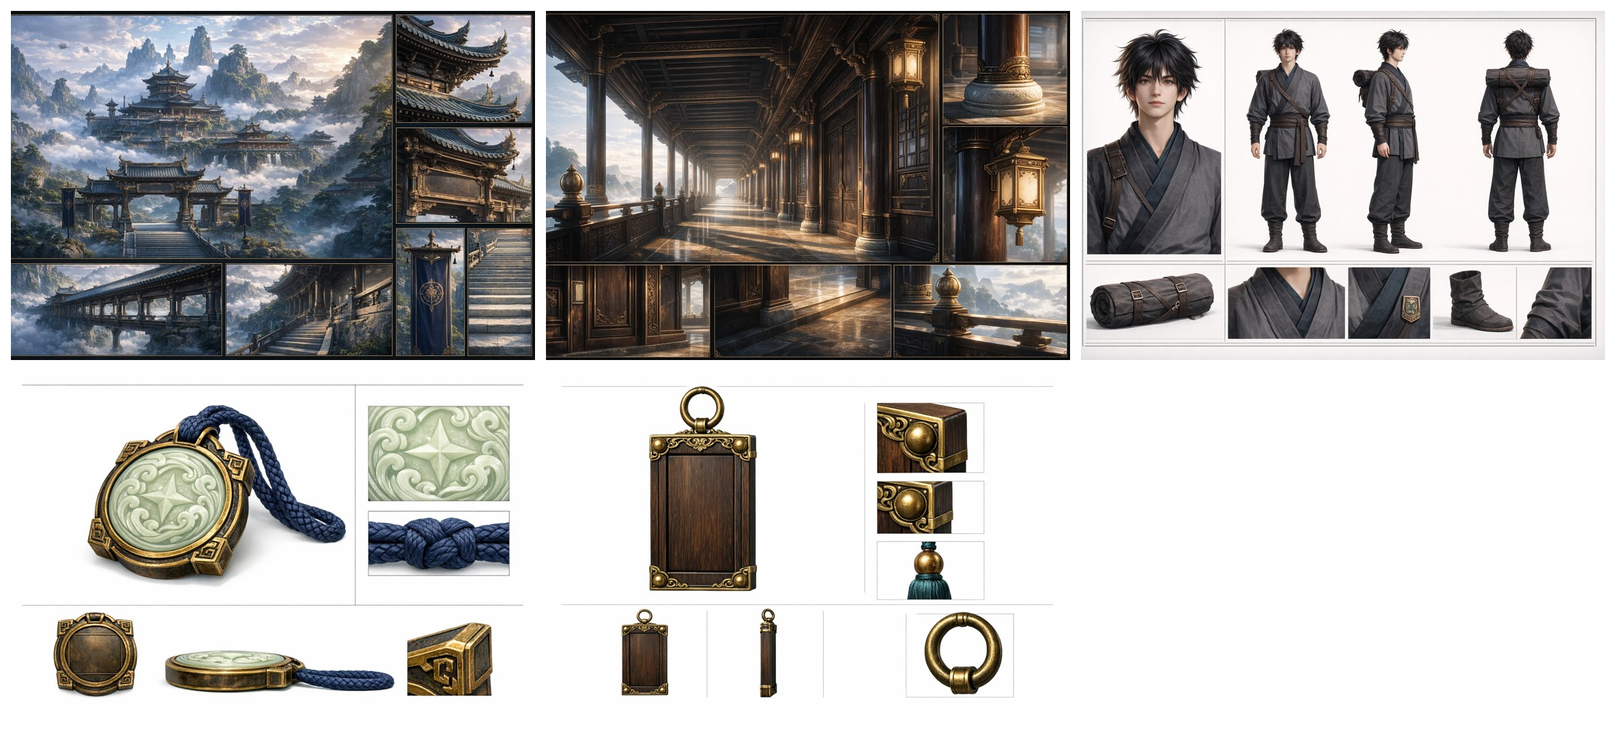
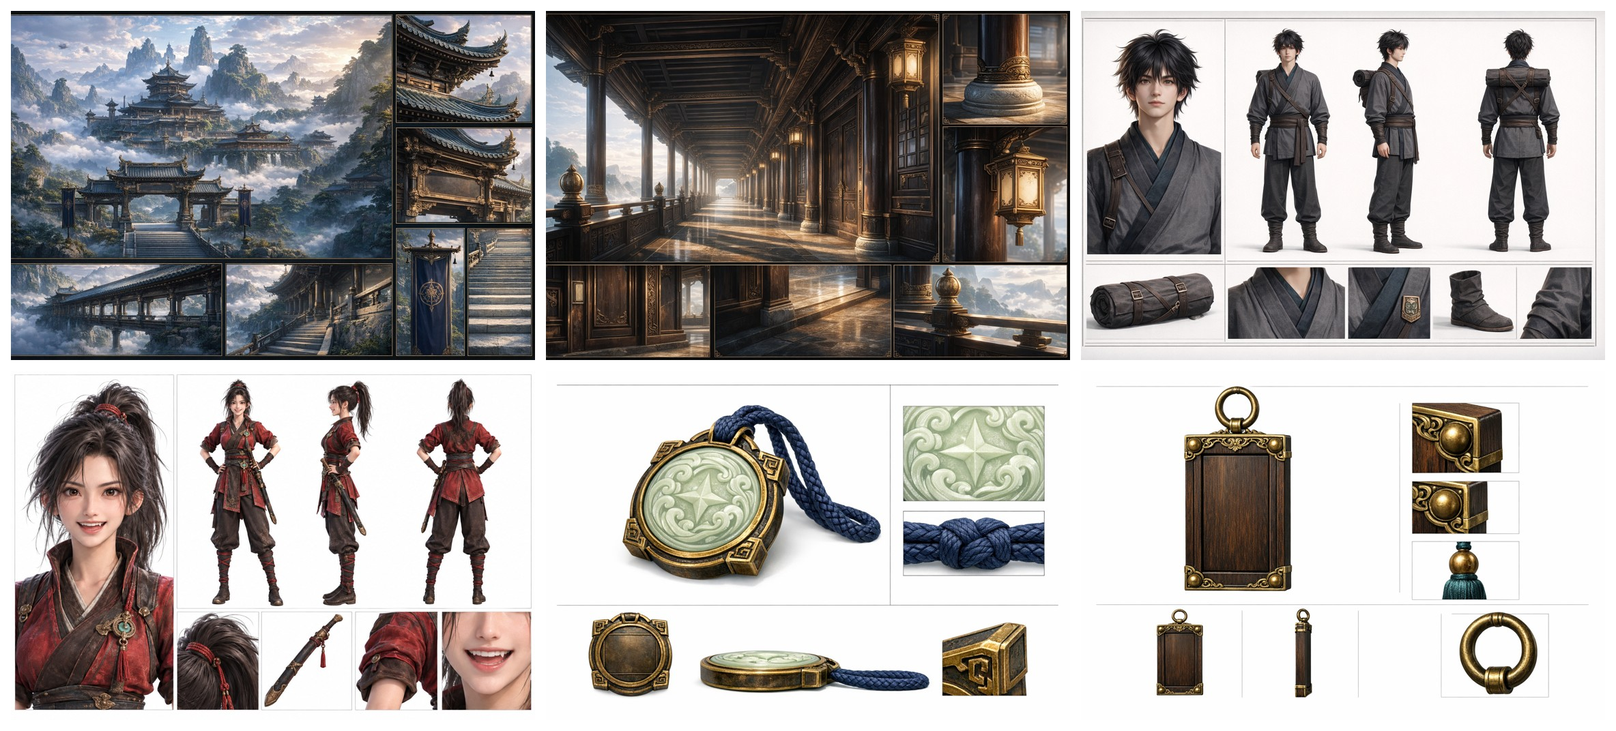
第 12 場鏡頭表 v2 新圖：近景 5 張＋厲若楓女版重出 2 張的 Gemini 提示詞與參考拼圖（HANDOFF-011）
Claude-Session: https://claude.ai/code/session_017YfYk6Rqfgdxwz4BghZYcX

Changed region(s): [[0.0, 0.5233, 0.6562, 0.9851], [0.7188, 0.5233, 0.8125, 0.9543], [0.875, 0.5233, 0.9688, 0.9543]]

diff --git a/production/LF01/tools/scene12_newframes.py b/production/LF01/tools/scene12_newframes.py
@@ -1,0 +1,80 @@
+"""
+第 12 場鏡頭表 v2 需要的新圖（近景 5 張＋厲若楓女版重出 2 張）的 Gemini 提示詞與參考拼圖。
+
+讀 ../scene12_shots.json 的 new 欄位與 ../lf01.json，沿用 lf01_handoff.py 的畫風規則、光線與拼圖工具，產生：
+  - docs/HANDOFF-011_LF01_SCENE12_NEWFRAMES.md
+  - storyboard/chatgpt/scene12-new/<鏡號>-refs.jpg（參考拼圖）
+存檔位置：近景存 storyboard/frames/new/<鏡號>.png；重出的存回 storyboard/frames/B04/f2.png、B09/f1.png（舊圖移到 _rejected/）。
+
+用法：LF01_BRANCH=<分支> python3 production/LF01/tools/scene12_newframes.py
+"""
+import json
+import os
+
+import lf01_handoff as h
+
+LF, g, data = h.LF, h.g, h.data
+SEG = {s["id"]: s for s in data["segments"]}
+OUT_DIR = os.path.join(LF, "storyboard", "chatgpt", "scene12-new")
+DOC = os.path.join(h.REPO, "docs", "HANDOFF-011_LF01_SCENE12_NEWFRAMES.md")
+
+# 鏡號 → (光線所屬段落, 角色, 英文畫面描述)
+CLOSEUPS = {
+    "S05": ("B01", ["C03"], "Medium close-up of 郁岑燁, three-quarter view facing screen-right, standing in drifting red mist; "
+            "his straight sword half drawn from the scabbard at his hip, brows knitted tight, eyes fixed on the depth of the fog. "
+            "Background: blurred twisted tree roots and red fog of the ancient forest ruins."),
+    "S06": ("B01", ["C06"], "Medium close-up of 江祈璟, three-quarter view facing screen-right, staring into the depth of the red fog; "
+            "jaw clenched, high ponytail with the silver hair ring, the long spear held upright beside him with its tip slightly "
+            "raised and the small bronze bell visible under the spearhead. Background: blurred red fog and tree roots."),
+    "S07": ("B01", ["C04"], "Medium close-up of 厲若楓 (a young WOMAN), three-quarter view facing screen-right, her three-section "
+            "folding short bow drawn halfway, arrow nocked, amber eyes unblinking and focused on the fog; low ponytail, dark-teal "
+            "cape with hood down. Background: blurred red fog and tree roots."),
+    "S09": ("B02", ["C02"], "Close-up of 齊衡烈 from the chest up, front three-quarter view: his right hand grips the hilt of his "
+            "heavy single-edged saber and is visibly trembling; his left hand presses down on it to stop the shaking; he glances "
+            "down at his hands with a forced, nervous grin, a bead of sweat on his temple. Red-tinted fog behind him."),
+    "S12": ("B02", ["C01"], "Close-up of 机遙 from the chest up, three-quarter view facing screen-right: startled and suspicious, "
+            "eyes wide, a bead of sweat at his temple, lips slightly parted as if about to speak, looking toward something huge "
+            "off-screen right. Red-tinted fog and blurred stone pillars behind him."),
+}
+LIPSYNC = ("The face is large, sharp and clearly visible (this shot will be used for lip-sync), no hands or objects covering "
+           "the mouth, no motion blur on the face.")
+
+
+def closeup_job(sid, segid, chars, desc):
+    seg = SEG[segid]
+    refs = [h.scene_sheet(seg["scene"])] + [h.char_sheet(c) for c in chars]
+    descs = ["environment sheet of this location — the background must match its materials and mood"] + [
+        f"character model sheet of {h.char_name(c)} — the person called {h.char_name(c)} in the shot text; match the SAME "
+        "face, hairstyle, costume and weapon exactly" for c in chars]
+    must = "".join(f"{h.char_name(c)} MUST look like this: {data['mustLook'][c]}\n\n"
+                   for c in chars if c in data.get("mustLook", {}))
+    body = (f"{g.STYLE_RENDER} {g.STYLE_WORLD}\n\nLighting: {h.light_of(seg)}\n\nShot: {desc}\n\n{must}{LIPSYNC}\n\n"
+            "Horizontal 16:9 widescreen cinematic frame. Only this one character appears. "
+            "No text, no subtitles, no watermark, no borders — a single clean full-bleed frame.")
+    return {"id": sid, "refs": refs, "descs": descs, "body": body,
+            "out": os.path.join(LF, "storyboard", "frames", "new", f"{sid}.png"),
+            "board": os.path.join(OUT_DIR, f"{sid}-refs.jpg")}
+
+
+def main():
+    os.makedirs(OUT_DIR, exist_ok=True)
+    jobs = [closeup_job(k, *v) for k, v in CLOSEUPS.items()]
+    redo = [j for j in h.frame_jobs() if (j["seg"]["id"], j["k"]) in {("B04", 2), ("B09", 1)}]
+    L = ["# 《九曜：天墟》HANDOFF-011　第 12 場鏡頭表 v2 新圖（Gemini）", "",
+         "> 由 `production/LF01/tools/scene12_newframes.py` 產生；鏡頭表見 `production/LF01/storyboard/scene12_shotlist_v2.md`。",
+         "> Gemini 用 **Pro**、**每張開新對話**、只附該張的參考拼圖；出完傳回 Claude 驗圖。", ""]
+    for j in jobs:
+        ups, lines = h.board_or_single(j["refs"], j["descs"], j["board"])
+        L += [f"## {j['id']}　→ 存成 `{h.rel(j['out'])}`", "", "**上傳：** " + "、".join(ups), "",
+              "```text", "Reference images:\n" + "\n".join(lines) + "\n\n" + j["body"], "```", ""]
+    for j in redo:
+        ups, lines = h.board_or_single(j["refs"], j["descs"], j["board"])
+        L += [f"## {j['seg']['id']} f{j['k']}（重出：厲若楓改女版）　→ 存成 `{h.rel(j['out'])}`（舊圖移 `_rejected/`）", "",
+              "**上傳：** " + "、".join(ups), "",
+              "```text", "Reference images:\n" + "\n".join(lines) + "\n\n" + j["body"], "```", ""]
+    open(DOC, "w", encoding="utf-8").write("\n".join(L))
+    print(f"✓ {h.rel(DOC)}：近景 {len(jobs)} 張、重出 {len(redo)} 張")
+
+
+if __name__ == "__main__":
+    main()

diff --git a/docs/HANDOFF-011_LF01_SCENE12_NEWFRAMES.md b/docs/HANDOFF-011_LF01_SCENE12_NEWFRAMES.md
@@ -1,0 +1,173 @@
+# 《九曜：天墟》HANDOFF-011　第 12 場鏡頭表 v2 新圖（Gemini）
+
+> 由 `production/LF01/tools/scene12_newframes.py` 產生；鏡頭表見 `production/LF01/storyboard/scene12_shotlist_v2.md`。
+> Gemini 用 **Pro**、**每張開新對話**、只附該張的參考拼圖；出完傳回 Claude 驗圖。
+
+## S05　→ 存成 `production/LF01/storyboard/frames/new/S05.png`
+
+**上傳：** [參考拼圖 S05-refs.jpg](https://raw.githubusercontent.com/sky03104/jiuyao-tianxu/claude/blissful-cori-jllluh/production/LF01/storyboard/chatgpt/scene12-new/S05-refs.jpg)（2 張拼成一張）
+
+```text
+Reference images:
+Image 1: a reference board of 2 panels separated by white gaps (it is a reference sheet only — do NOT reproduce the board layout):
+  - Panel 1 (top-left): environment sheet of this location — the background must match its materials and mood
+  - Panel 2 (top-right): character model sheet of 郁岑燁 — the person called 郁岑燁 in the shot text; match the SAME face, hairstyle, costume and weapon exactly
+
+Rendering style: match the attached reference images exactly — polished Chinese xianxia MMORPG key-art CG in the look of a premium donghua (Chinese 3D animation) feature: semi-realistic stylized 3D, beautiful idealised young faces with smooth luminous skin, clear bright detailed eyes with strong catchlights, crisp glossy highlights on hair, metal and leather, rich fine costume detailing with antique-gold filigree, soft bloom and clean airy colour. It must NOT look like a real photograph, a real person, a 3D scan or a costume-drama still. Art direction: premium 3D Eastern xuanhuan MMORPG cinematic art — a high-end 3D game character and environment render with the finish of an Eastern fantasy animated feature film. Stylized 3D, NOT a photograph, not live-action, not a period TV drama, not 2D anime, not chibi, not western fantasy. Natural adult proportions, slim and fit young characters, refined East Asian faces with personality in the eyes, no oversized anime eyes, no bodybuilder musculature. Materials: fine fabric, detailed leather, antique bronze, jade and wood with subtle mystical texture. Palette: deep teal, ink black, dark blue, dark brown, warm gold accents, small touches of vermilion. All characters are adults and fully clothed. Cinematic environmental light, depth of field, volumetric light, aerial perspective, a little morning mist, natural shadows; everything exists inside the world, never a studio backdrop.
+
+Lighting: an ominous crimson glare seeping down through gaps in the high forest canopy, the mist between the trunks tinted dull red, the crystal at the centre giving off only a faint dark-red pulse, the three stone pillars still dark and silent with NO light beams, deep shadows under the trees
+
+Shot: Medium close-up of 郁岑燁, three-quarter view facing screen-right, standing in drifting red mist; his straight sword half drawn from the scabbard at his hip, brows knitted tight, eyes fixed on the depth of the fog. Background: blurred twisted tree roots and red fog of the ancient forest ruins.
+
+The face is large, sharp and clearly visible (this shot will be used for lip-sync), no hands or objects covering the mouth, no motion blur on the face.
+
+Horizontal 16:9 widescreen cinematic frame. Only this one character appears. No text, no subtitles, no watermark, no borders — a single clean full-bleed frame.
+```
+
+## S06　→ 存成 `production/LF01/storyboard/frames/new/S06.png`
+
+**上傳：** [參考拼圖 S06-refs.jpg](https://raw.githubusercontent.com/sky03104/jiuyao-tianxu/claude/blissful-cori-jllluh/production/LF01/storyboard/chatgpt/scene12-new/S06-refs.jpg)（2 張拼成一張）
+
+```text
+Reference images:
+Image 1: a reference board of 2 panels separated by white gaps (it is a reference sheet only — do NOT reproduce the board layout):
+  - Panel 1 (top-left): environment sheet of this location — the background must match its materials and mood
+  - Panel 2 (top-right): character model sheet of 江祈璟 — the person called 江祈璟 in the shot text; match the SAME face, hairstyle, costume and weapon exactly
+
+Rendering style: match the attached reference images exactly — polished Chinese xianxia MMORPG key-art CG in the look of a premium donghua (Chinese 3D animation) feature: semi-realistic stylized 3D, beautiful idealised young faces with smooth luminous skin, clear bright detailed eyes with strong catchlights, crisp glossy highlights on hair, metal and leather, rich fine costume detailing with antique-gold filigree, soft bloom and clean airy colour. It must NOT look like a real photograph, a real person, a 3D scan or a costume-drama still. Art direction: premium 3D Eastern xuanhuan MMORPG cinematic art — a high-end 3D game character and environment render with the finish of an Eastern fantasy animated feature film. Stylized 3D, NOT a photograph, not live-action, not a period TV drama, not 2D anime, not chibi, not western fantasy. Natural adult proportions, slim and fit young characters, refined East Asian faces with personality in the eyes, no oversized anime eyes, no bodybuilder musculature. Materials: fine fabric, detailed leather, antique bronze, jade and wood with subtle mystical texture. Palette: deep teal, ink black, dark blue, dark brown, warm gold accents, small touches of vermilion. All characters are adults and fully clothed. Cinematic environmental light, depth of field, volumetric light, aerial perspective, a little morning mist, natural shadows; everything exists inside the world, never a studio backdrop.
+
+Lighting: an ominous crimson glare seeping down through gaps in the high forest canopy, the mist between the trunks tinted dull red, the crystal at the centre giving off only a faint dark-red pulse, the three stone pillars still dark and silent with NO light beams, deep shadows under the trees
+
+Shot: Medium close-up of 江祈璟, three-quarter view facing screen-right, staring into the depth of the red fog; jaw clenched, high ponytail with the silver hair ring, the long spear held upright beside him with its tip slightly raised and the small bronze bell visible under the spearhead. Background: blurred red fog and tree roots.
+
+The face is large, sharp and clearly visible (this shot will be used for lip-sync), no hands or objects covering the mouth, no motion blur on the face.
+
+Horizontal 16:9 widescreen cinematic frame. Only this one character appears. No text, no subtitles, no watermark, no borders — a single clean full-bleed frame.
+```
+
+## S07　→ 存成 `production/LF01/storyboard/frames/new/S07.png`
+
+**上傳：** [參考拼圖 S07-refs.jpg](https://raw.githubusercontent.com/sky03104/jiuyao-tianxu/claude/blissful-cori-jllluh/production/LF01/storyboard/chatgpt/scene12-new/S07-refs.jpg)（2 張拼成一張）
+
+```text
+Reference images:
+Image 1: a reference board of 2 panels separated by white gaps (it is a reference sheet only — do NOT reproduce the board layout):
+  - Panel 1 (top-left): environment sheet of this location — the background must match its materials and mood
+  - Panel 2 (top-right): character model sheet of 厲若楓 — the person called 厲若楓 in the shot text; match the SAME face, hairstyle, costume and weapon exactly
+
+Rendering style: match the attached reference images exactly — polished Chinese xianxia MMORPG key-art CG in the look of a premium donghua (Chinese 3D animation) feature: semi-realistic stylized 3D, beautiful idealised young faces with smooth luminous skin, clear bright detailed eyes with strong catchlights, crisp glossy highlights on hair, metal and leather, rich fine costume detailing with antique-gold filigree, soft bloom and clean airy colour. It must NOT look like a real photograph, a real person, a 3D scan or a costume-drama still. Art direction: premium 3D Eastern xuanhuan MMORPG cinematic art — a high-end 3D game character and environment render with the finish of an Eastern fantasy animated feature film. Stylized 3D, NOT a photograph, not live-action, not a period TV drama, not 2D anime, not chibi, not western fantasy. Natural adult proportions, slim and fit young characters, refined East Asian faces with personality in the eyes, no oversized anime eyes, no bodybuilder musculature. Materials: fine fabric, detailed leather, antique bronze, jade and wood with subtle mystical texture. Palette: deep teal, ink black, dark blue, dark brown, warm gold accents, small touches of vermilion. All characters are adults and fully clothed. Cinematic environmental light, depth of field, volumetric light, aerial perspective, a little morning mist, natural shadows; everything exists inside the world, never a studio backdrop.
+
+Lighting: an ominous crimson glare seeping down through gaps in the high forest canopy, the mist between the trunks tinted dull red, the crystal at the centre giving off only a faint dark-red pulse, the three stone pillars still dark and silent with NO light beams, deep shadows under the trees
+
+Shot: Medium close-up of 厲若楓 (a young WOMAN), three-quarter view facing screen-right, her three-section folding short bow drawn halfway, arrow nocked, amber eyes unblinking and focused on the fog; low ponytail, dark-teal cape with hood down. Background: blurred red fog and tree roots.
+
+厲若楓 MUST look like this: 厲若楓 is a YOUNG WOMAN (female), amber eyes, long dark hair tied low, dark-teal short cape with hood DOWN, sleeveless left arm with an old shoulder scar, quiver behind the right shoulder, three-section folding short bow (match her approved character sheet; arm guards on both forearms are acceptable).
+
+The face is large, sharp and clearly visible (this shot will be used for lip-sync), no hands or objects covering the mouth, no motion blur on the face.
+
+Horizontal 16:9 widescreen cinematic frame. Only this one character appears. No text, no subtitles, no watermark, no borders — a single clean full-bleed frame.
+```
+
+## S09　→ 存成 `production/LF01/storyboard/frames/new/S09.png`
+
+**上傳：** [參考拼圖 S09-refs.jpg](https://raw.githubusercontent.com/sky03104/jiuyao-tianxu/claude/blissful-cori-jllluh/production/LF01/storyboard/chatgpt/scene12-new/S09-refs.jpg)（2 張拼成一張）
+
+```text
+Reference images:
+Image 1: a reference board of 2 panels separated by white gaps (it is a reference sheet only — do NOT reproduce the board layout):
+  - Panel 1 (top-left): environment sheet of this location — the background must match its materials and mood
+  - Panel 2 (top-right): character model sheet of 齊衡烈 — the person called 齊衡烈 in the shot text; match the SAME face, hairstyle, costume and weapon exactly
+
+Rendering style: match the attached reference images exactly — polished Chinese xianxia MMORPG key-art CG in the look of a premium donghua (Chinese 3D animation) feature: semi-realistic stylized 3D, beautiful idealised young faces with smooth luminous skin, clear bright detailed eyes with strong catchlights, crisp glossy highlights on hair, metal and leather, rich fine costume detailing with antique-gold filigree, soft bloom and clean airy colour. It must NOT look like a real photograph, a real person, a 3D scan or a costume-drama still. Art direction: premium 3D Eastern xuanhuan MMORPG cinematic art — a high-end 3D game character and environment render with the finish of an Eastern fantasy animated feature film. Stylized 3D, NOT a photograph, not live-action, not a period TV drama, not 2D anime, not chibi, not western fantasy. Natural adult proportions, slim and fit young characters, refined East Asian faces with personality in the eyes, no oversized anime eyes, no bodybuilder musculature. Materials: fine fabric, detailed leather, antique bronze, jade and wood with subtle mystical texture. Palette: deep teal, ink black, dark blue, dark brown, warm gold accents, small touches of vermilion. All characters are adults and fully clothed. Cinematic environmental light, depth of field, volumetric light, aerial perspective, a little morning mist, natural shadows; everything exists inside the world, never a studio backdrop.
+
+Lighting: an ominous crimson glare seeping down through gaps in the high forest canopy, the mist between the trunks tinted dull red, the crystal at the centre giving off only a faint dark-red pulse, the three stone pillars still dark and silent with NO light beams, deep shadows under the trees
+
+Shot: Close-up of 齊衡烈 from the chest up, front three-quarter view: his right hand grips the hilt of his heavy single-edged saber and is visibly trembling; his left hand presses down on it to stop the shaking; he glances down at his hands with a forced, nervous grin, a bead of sweat on his temple. Red-tinted fog behind him.
+
+The face is large, sharp and clearly visible (this shot will be used for lip-sync), no hands or objects covering the mouth, no motion blur on the face.
+
+Horizontal 16:9 widescreen cinematic frame. Only this one character appears. No text, no subtitles, no watermark, no borders — a single clean full-bleed frame.
+```
+
+## S12　→ 存成 `production/LF01/storyboard/frames/new/S12.png`
+
+**上傳：** [參考拼圖 S12-refs.jpg](https://raw.githubusercontent.com/sky03104/jiuyao-tianxu/claude/blissful-cori-jllluh/production/LF01/storyboard/chatgpt/scene12-new/S12-refs.jpg)（2 張拼成一張）
+
+```text
+Reference images:
+Image 1: a reference board of 2 panels separated by white gaps (it is a reference sheet only — do NOT reproduce the board layout):
+  - Panel 1 (top-left): environment sheet of this location — the background must match its materials and mood
+  - Panel 2 (top-right): character model sheet of 机遙 — the person called 机遙 in the shot text; match the SAME face, hairstyle, costume and weapon exactly
+
+Rendering style: match the attached reference images exactly — polished Chinese xianxia MMORPG key-art CG in the look of a premium donghua (Chinese 3D animation) feature: semi-realistic stylized 3D, beautiful idealised young faces with smooth luminous skin, clear bright detailed eyes with strong catchlights, crisp glossy highlights on hair, metal and leather, rich fine costume detailing with antique-gold filigree, soft bloom and clean airy colour. It must NOT look like a real photograph, a real person, a 3D scan or a costume-drama still. Art direction: premium 3D Eastern xuanhuan MMORPG cinematic art — a high-end 3D game character and environment render with the finish of an Eastern fantasy animated feature film. Stylized 3D, NOT a photograph, not live-action, not a period TV drama, not 2D anime, not chibi, not western fantasy. Natural adult proportions, slim and fit young characters, refined East Asian faces with personality in the eyes, no oversized anime eyes, no bodybuilder musculature. Materials: fine fabric, detailed leather, antique bronze, jade and wood with subtle mystical texture. Palette: deep teal, ink black, dark blue, dark brown, warm gold accents, small touches of vermilion. All characters are adults and fully clothed. Cinematic environmental light, depth of field, volumetric light, aerial perspective, a little morning mist, natural shadows; everything exists inside the world, never a studio backdrop.
+
+Lighting: an ominous crimson glare seeping down through gaps in the high forest canopy, the mist between the trunks tinted dull red, the crystal at the centre giving off only a faint dark-red pulse, the three stone pillars still dark and silent with NO light beams, deep shadows under the trees
+
+Shot: Close-up of 机遙 from the chest up, three-quarter view facing screen-right: startled and suspicious, eyes wide, a bead of sweat at his temple, lips slightly parted as if about to speak, looking toward something huge off-screen right. Red-tinted fog and blurred stone pillars behind him.
+
+The face is large, sharp and clearly visible (this shot will be used for lip-sync), no hands or objects covering the mouth, no motion blur on the face.
+
+Horizontal 16:9 widescreen cinematic frame. Only this one character appears. No text, no subtitles, no watermark, no borders — a single clean full-bleed frame.
+```
+
+## B04 f2（重出：厲若楓改女版）　→ 存成 `production/LF01/storyboard/frames/B04/f2.png`（舊圖移 `_rejected/`）
+
+**上傳：** [參考拼圖 f2-refs.jpg](https://raw.githubusercontent.com/sky03104/jiuyao-tianxu/claude/blissful-cori-jllluh/production/LF01/storyboard/chatgpt/B04/f2-refs.jpg)（3 張拼成一張）
+
+```text
+Reference images:
+Image 1: a reference board of 3 panels separated by white gaps (it is a reference sheet only — do NOT reproduce the board layout):
+  - Panel 1 (top-left): environment sheet of this location — match its architecture, materials, layout and wear exactly; the frame shows the same place
+  - Panel 2 (top-right): character model sheet of 厲若楓 — this is the person called 厲若楓 in the shot text; match the SAME face, hairstyle, costume and weapon exactly
+  - Panel 3 (middle-left): character model sheet of 赤瞳妖將 — this is the person called 赤瞳妖將 in the shot text; match the SAME face, hairstyle, costume and weapon exactly
+
+Rendering style: match the attached reference images exactly — polished Chinese xianxia MMORPG key-art CG in the look of a premium donghua (Chinese 3D animation) feature: semi-realistic stylized 3D, beautiful idealised young faces with smooth luminous skin, clear bright detailed eyes with strong catchlights, crisp glossy highlights on hair, metal and leather, rich fine costume detailing with antique-gold filigree, soft bloom and clean airy colour. It must NOT look like a real photograph, a real person, a 3D scan or a costume-drama still. Art direction: premium 3D Eastern xuanhuan MMORPG cinematic art — a high-end 3D game character and environment render with the finish of an Eastern fantasy animated feature film. Stylized 3D, NOT a photograph, not live-action, not a period TV drama, not 2D anime, not chibi, not western fantasy. Natural adult proportions, slim and fit young characters, refined East Asian faces with personality in the eyes, no oversized anime eyes, no bodybuilder musculature. Materials: fine fabric, detailed leather, antique bronze, jade and wood with subtle mystical texture. Palette: deep teal, ink black, dark blue, dark brown, warm gold accents, small touches of vermilion. All characters are adults and fully clothed. Cinematic environmental light, depth of field, volumetric light, aerial perspective, a little morning mist, natural shadows; everything exists inside the world, never a studio backdrop.
+
+Lighting: the three stone pillars erupt with columns of dark crimson light shooting up through the canopy, the crystal pulsing with a deep red glow from within, a crimson glare seeping through the canopy from the sky above, the mist lit red from below, harsh red rim light on every surface
+
+Blocking (Chinese): 郁岑燁被看穿；厲若楓的箭被彈開
+
+Shot (Chinese): 中景，橫式 16:9。厲若楓站在樹根上拉開三段式短弓連射，箭矢打在赤瞳妖將的鱗甲上被彈開，火星四濺。
+
+LAYOUT (must follow): two figures only. 厲若楓 on the left standing on a huge tree root, amber eyes, drawing his three-section folding short bow, a volley of arrows in flight toward the right. 赤瞳妖將 on the right, towering, arrows striking his crimson-black scale plates and bouncing off in bursts of sparks; he does not even turn.
+
+厲若楓 MUST look like this: 厲若楓 is a YOUNG WOMAN (female), amber eyes, long dark hair tied low, dark-teal short cape with hood DOWN, sleeveless left arm with an old shoulder scar, quiver behind the right shoulder, three-section folding short bow (match her approved character sheet; arm guards on both forearms are acceptable).
+
+赤瞳妖將 MUST look like this: towering, clearly more than twice the height of the young cultivators; whole torso, arms and legs covered in layered crimson-black scale plates like lacquered armour with faint dull-crimson seams — NO bare chest, NO visible abdominal muscles, lean not muscular; torn faded deep-blue ceremonial sash at the waist; long ink-grey hair; dark ash-grey face, dark sclera with deep crimson eyes, short swept-back horn ridges, no pointed ears; long black claws; no weapon; calm and silent, never roaring. Only crimson light and red mist around him — no purple, no smoke of any other colour.
+
+Shot size: 中景; camera move: Static Shot (draw the opening moment of the shot).
+
+Horizontal 16:9 widescreen cinematic frame (1536x1024 is acceptable). Only the characters named in the shot text appear, plus any background students or animals the shot text explicitly mentions. No text, no subtitles, no watermark, no borders — a single clean full-bleed frame.
+```
+
+## B09 f1（重出：厲若楓改女版）　→ 存成 `production/LF01/storyboard/frames/B09/f1.png`（舊圖移 `_rejected/`）
+
+**上傳：** [參考拼圖 f1-refs.jpg](https://raw.githubusercontent.com/sky03104/jiuyao-tianxu/claude/blissful-cori-jllluh/production/LF01/storyboard/chatgpt/B09/f1-refs.jpg)（7 張拼成一張）
+
+```text
+Reference images:
+Image 1: a reference board of 7 panels separated by white gaps (it is a reference sheet only — do NOT reproduce the board layout):
+  - Panel 1 (top-left): environment sheet of this location — match its architecture, materials, layout and wear exactly; the frame shows the same place
+  - Panel 2 (top-middle): character model sheet of 机遙 — this is the person called 机遙 in the shot text; match the SAME face, hairstyle, costume and weapon exactly
+  - Panel 3 (top-right): character model sheet of 齊衡烈 — this is the person called 齊衡烈 in the shot text; match the SAME face, hairstyle, costume and weapon exactly
+  - Panel 4 (middle-left): character model sheet of 郁岑燁 — this is the person called 郁岑燁 in the shot text; match the SAME face, hairstyle, costume and weapon exactly
+  - Panel 5 (middle-middle): character model sheet of 厲若楓 — this is the person called 厲若楓 in the shot text; match the SAME face, hairstyle, costume and weapon exactly
+  - Panel 6 (middle-right): character model sheet of 江祈璟 — this is the person called 江祈璟 in the shot text; match the SAME face, hairstyle, costume and weapon exactly
+  - Panel 7 (bottom-left): character model sheet of 聞人澈 — this is the person called 聞人澈 in the shot text; match the SAME face, hairstyle, costume and weapon exactly
+
+Rendering style: match the attached reference images exactly — polished Chinese xianxia MMORPG key-art CG in the look of a premium donghua (Chinese 3D animation) feature: semi-realistic stylized 3D, beautiful idealised young faces with smooth luminous skin, clear bright detailed eyes with strong catchlights, crisp glossy highlights on hair, metal and leather, rich fine costume detailing with antique-gold filigree, soft bloom and clean airy colour. It must NOT look like a real photograph, a real person, a 3D scan or a costume-drama still. Art direction: premium 3D Eastern xuanhuan MMORPG cinematic art — a high-end 3D game character and environment render with the finish of an Eastern fantasy animated feature film. Stylized 3D, NOT a photograph, not live-action, not a period TV drama, not 2D anime, not chibi, not western fantasy. Natural adult proportions, slim and fit young characters, refined East Asian faces with personality in the eyes, no oversized anime eyes, no bodybuilder musculature. Materials: fine fabric, detailed leather, antique bronze, jade and wood with subtle mystical texture. Palette: deep teal, ink black, dark blue, dark brown, warm gold accents, small touches of vermilion. All characters are adults and fully clothed. Cinematic environmental light, depth of field, volumetric light, aerial perspective, a little morning mist, natural shadows; everything exists inside the world, never a studio backdrop.
+
+Lighting: cold grey-green forest mist, late afternoon, quiet
+
+Blocking (Chinese): 所有人站在原地
+
+Shot (Chinese): 全景，橫式 16:9。石庭恢復灰暗安靜，六名年輕修行者站在原地沒有人說話；齊衡烈握刀的手還在發抖，聞人澈扶著短杖喘氣。
+
+LAYOUT (must follow): exactly six young cultivators standing still in the grey quiet stone courtyard, spread out, no one speaking: 机遙 (messy dark hair, plain grey short jacket, clean face), 齊衡烈 (bright red hair, the hand holding his heavy saber trembling), 郁岑燁 (black-teal hair, deep navy robe, straight sword), 厲若楓 (bow in hand, quiver on his back), 江祈璟 (high ponytail, deep navy robe, spear), 聞人澈 (grey-blue hooded robe, leaning on his short staff, catching his breath). Exactly THREE dark stone pillars in a triangle and ONE central round pedestal with the dark crystal — no light beams anywhere. Cold grey-green mist.
+
+厲若楓 MUST look like this: 厲若楓 is a YOUNG WOMAN (female), amber eyes, long dark hair tied low, dark-teal short cape with hood DOWN, sleeveless left arm with an old shoulder scar, quiver behind the right shoulder, three-section folding short bow (match her approved character sheet; arm guards on both forearms are acceptable).
+
+Shot size: 全景; camera move: Static Shot (draw the opening moment of the shot).
+
+Horizontal 16:9 widescreen cinematic frame (1536x1024 is acceptable). Only the characters named in the shot text appear, plus any background students or animals the shot text explicitly mentions. No text, no subtitles, no watermark, no borders — a single clean full-bleed frame.
+```
